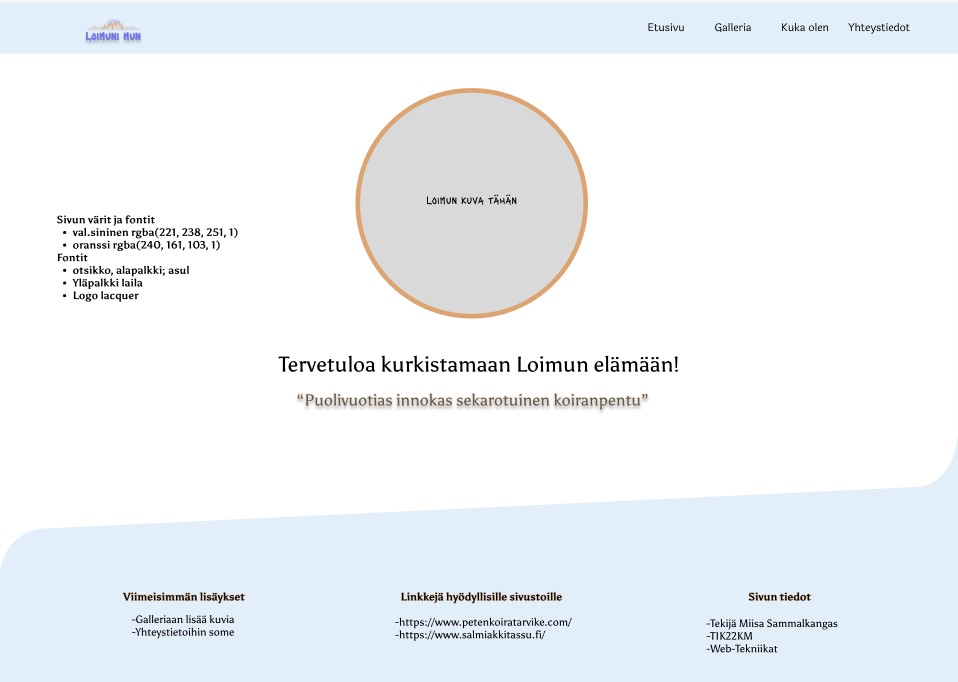
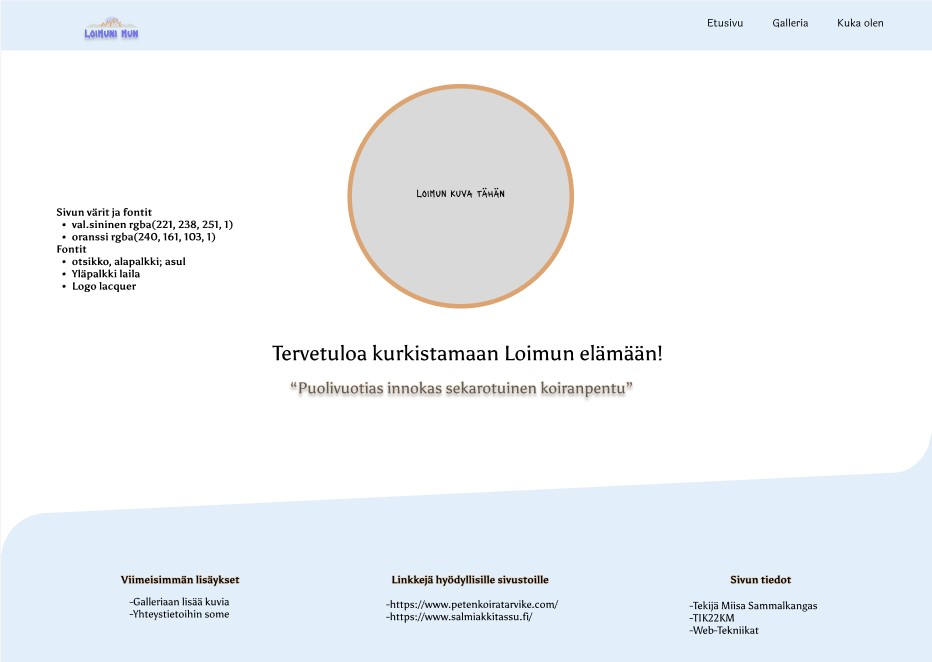
lisäsivujen määrän muutos, mallinnuskuvan muokkaus

diff --git a/index.html b/index.html
@@ -19,16 +19,13 @@
 <!--Navbar-->
 <nav class="navbar sticky-top navbar-light" style="background-color: #DDEEFB;">
     <div class="container">
-        <a class="navbar-brand" href="#">
-            <img src="/pictures/sivun logo.jpg" alt="" width="100" height="60">
-        </a>
-    </div>
-    <div class="buttons">
         <form class="container-fluid justify-content-start">
-            <button class="btn btn-sm btn-outline-secondary" type="button">Etusivu</button>
-            <button class="btn btn-sm btn-outline-secondary" type="button">Galleria</button>
-            <button class="btn btn-sm btn-outline-secondary" type="button">Kuka olen</button>
-            <button class="btn btn-sm btn-outline-secondary" type="button">Yhteystiedot</button>
+            <a class="navbar-brand" href="#">
+                <img id="logo" src="/pictures/sivun logo.jpg" width="100" height="60">
+            </a>
+            <button class="btn btn-sm" type="button">Etusivu</button>
+            <button class="btn btn-sm" type="button">Galleria</button>
+            <button class="btn btn-sm" type="button">Kuka olen</button>
         </form>
     </div>
 </nav>

diff --git a/css/styles.css b/css/styles.css
@@ -1,5 +1,6 @@
-nav{
-    
+
+#logo{
+    margin-left: 0.5em;
 }
 
 
